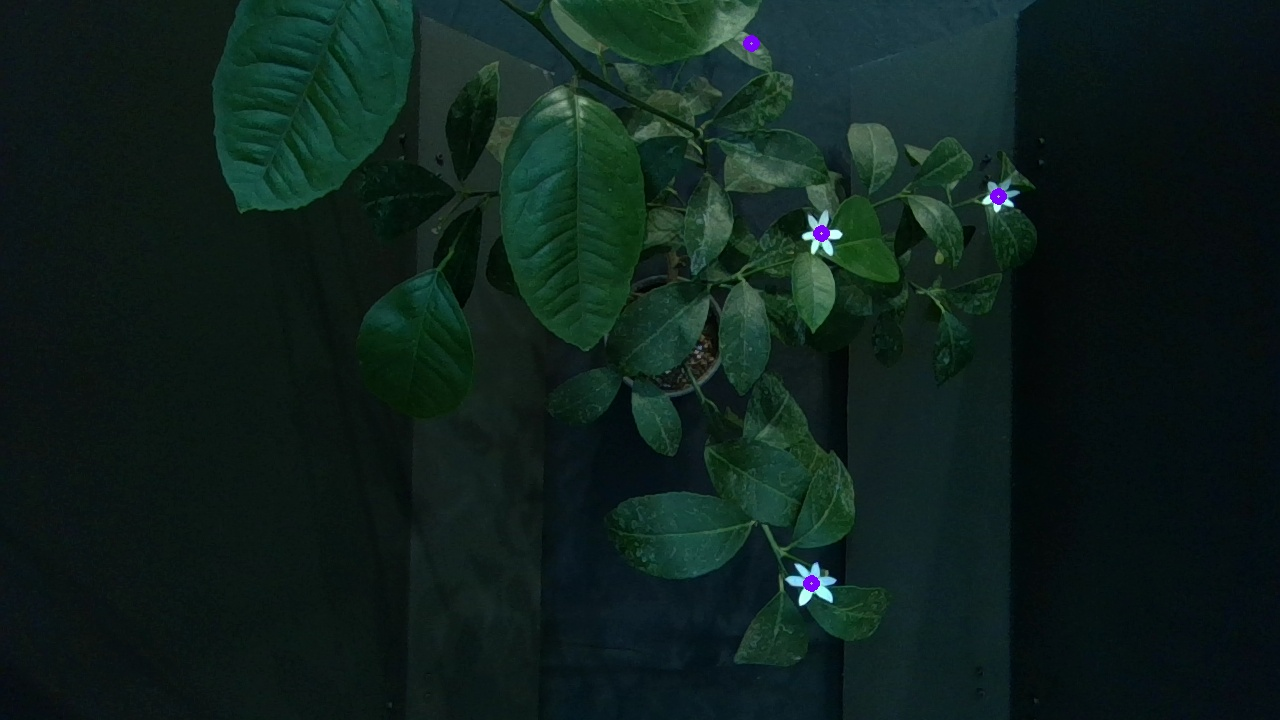
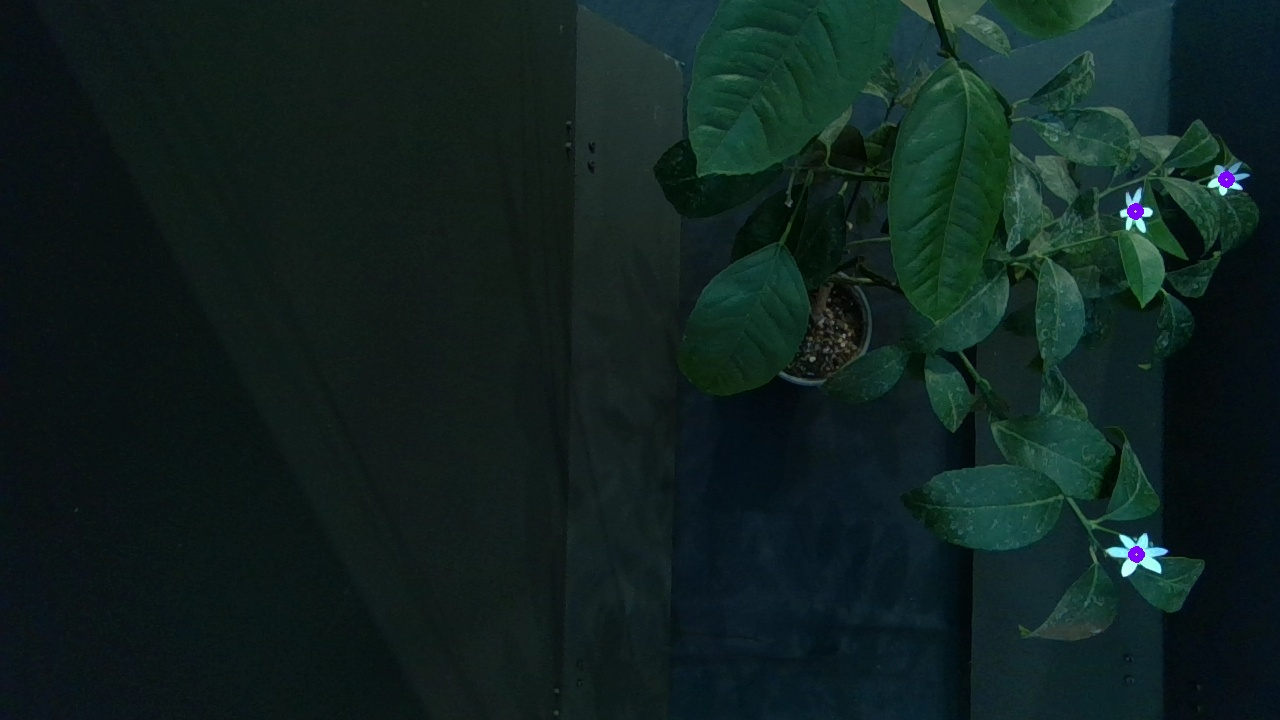
finds fake flowers

Changed region(s): [[0.1562, 0.0, 1.0, 1.0], [0.2812, 0.3667, 0.375, 0.4583]]

diff --git a/jetson/src/core/imaging.cpp b/jetson/src/core/imaging.cpp
@@ -84,7 +84,8 @@ cv::Mat whiteMask(cv::Mat& image, double brightest) {
 			double r = p->x;
 			double g = p->y;
 			double b = p->z;
-			if ((r + g + b) / 3 > brightest*0.7 // make sure its relatively bright compared to the whole image
+			if ((r + g + b) / 3 > brightest*0.55 && // make sure its relatively bright compared to the whole image
+				g < b * 1.5
 				) {
 				thresholded.at<uchar>(i, j) = 255;
 			}
@@ -139,7 +140,7 @@ bool nearYellow(cv::Mat& image, cv::Mat& white, cv::Mat& yellow, Point2D topLeft
 			double r = p->x;
 			double g = p->y;
 			double b = p->z;
-			if (b < brightest.b * 0.6 && // check less blue
+			if (b < brightest.b * 0.65 && // check less blue
 			    (r + g)/2 > (brightest.r + brightest.g) / 2 * 0.65// make sure its bright enough
 				) {
 				yellow.at<uchar>(i, j) = 255;
@@ -149,7 +150,7 @@ bool nearYellow(cv::Mat& image, cv::Mat& white, cv::Mat& yellow, Point2D topLeft
 	}
 	log(std::string("numYellow: ") + std::to_string(numYellow));
 	log(std::string("area: ") + std::to_string(area));
-	return numYellow > 25;
+	return numYellow > 10;
 }
 
 std::vector<Point2D> findFlowerCenters(cv::Mat& image, std::string const & tag){

diff --git a/jetson/src/core/main.cpp b/jetson/src/core/main.cpp
@@ -40,7 +40,7 @@ void test_find_flowers(){
 }
 
 std::vector<Point3D> test_image_processing(Camera & cam) {
-	cam.setExposure(70000); // higher for real plant
+	cam.setExposure(80000); // higher for real plant
 	// cam.setExposure(40000); // lower for fake plant	
 	cv::Mat image = cam.getColorImage();
 
@@ -333,13 +333,13 @@ int main(int argc, char** argv)
 	initialize_log();
 	log(std::string("Starting Program!"));
 	// test_limits();
-	main_loop();
+	// main_loop();
 
 	// test_scan();
 	// test_drive_interface();
 	// test_camera_image();
-	// Camera cam;
-	// test_image_processing(cam);
+	Camera cam;
+	test_image_processing(cam);
 	// test_clustering();
 	// test_i2c_write();
 	// test_i2c_read();
